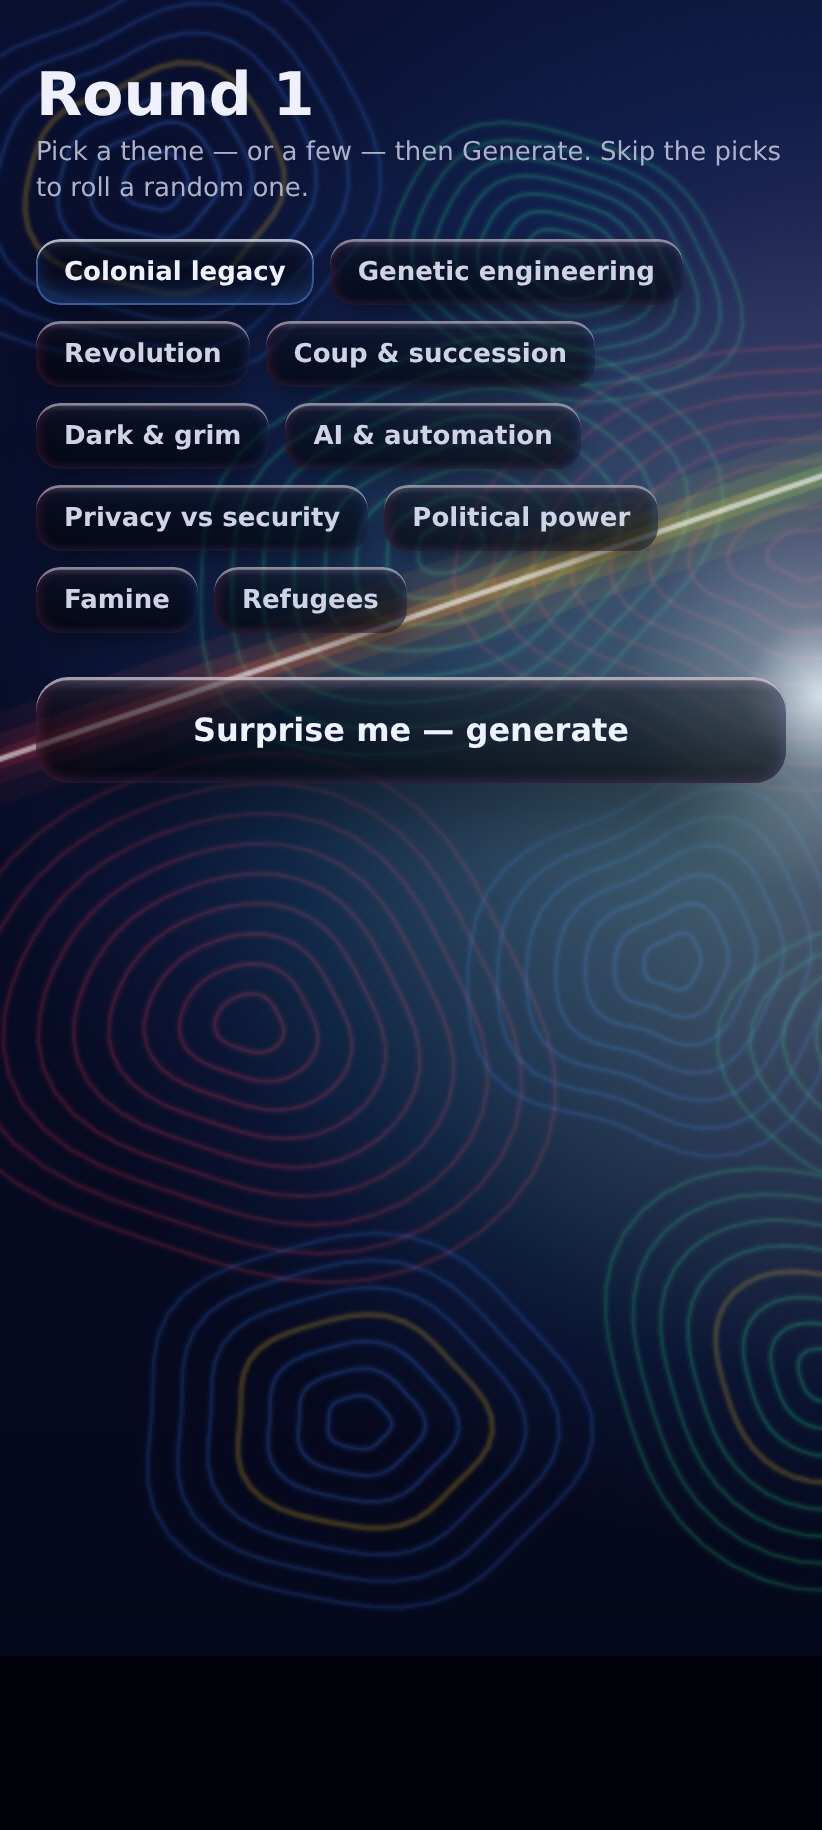
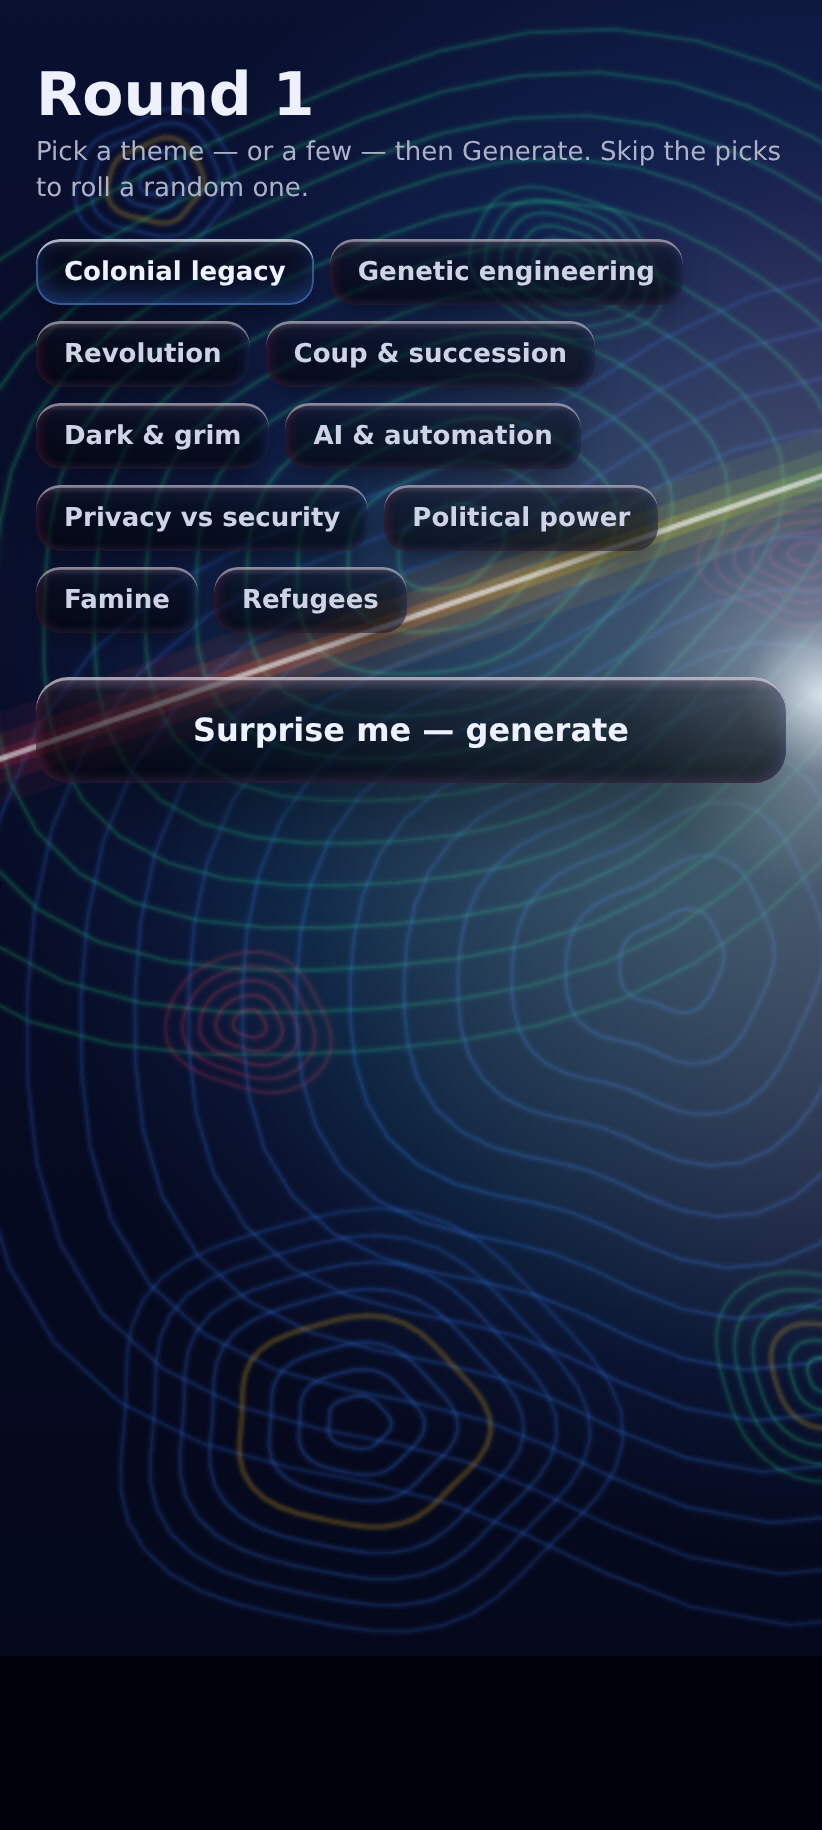
Diverse-scale contours + fresh diffraction loader
- Contours now have realistic size diversity: each peak gets a size class (broad
  many-ringed rises / mid hills / tight little knolls), biased toward small so a
  few big systems stand out — a real topographic map, not one uniform ring size.
- New DiffractionLoader: a glowing warm-white light core that radiates organic,
  ideology-hued contour rings outward (born at the core, bloom out and fade like
  light diffracting through cut glass), with a rotating spectral facet and a
  breathing core. It's the app's visual language in motion. GeneratingView uses
  it in dark mode; the raised-fist loader is kept for light mode.

versionCode 18 / 1.17.

Claude-Session: https://claude.ai/code/session_01FygEfTk57dQcPns1WQqt6E

diff --git a/app/src/main/java/com/azadishashn/app/ui/components/DiffractionLoader.kt b/app/src/main/java/com/azadishashn/app/ui/components/DiffractionLoader.kt
@@ -1,0 +1,123 @@
+package com.azadishashn.app.ui.components
+
+import androidx.compose.animation.core.LinearEasing
+import androidx.compose.animation.core.RepeatMode
+import androidx.compose.animation.core.animateFloat
+import androidx.compose.animation.core.infiniteRepeatable
+import androidx.compose.animation.core.rememberInfiniteTransition
+import androidx.compose.animation.core.tween
+import androidx.compose.foundation.Canvas
+import androidx.compose.foundation.layout.size
+import androidx.compose.runtime.Composable
+import androidx.compose.runtime.getValue
+import androidx.compose.ui.Modifier
+import androidx.compose.ui.geometry.Offset
+import androidx.compose.ui.graphics.Brush
+import androidx.compose.ui.graphics.Color
+import androidx.compose.ui.graphics.Path
+import androidx.compose.ui.graphics.drawscope.DrawScope
+import androidx.compose.ui.graphics.drawscope.Stroke
+import androidx.compose.ui.graphics.drawscope.withTransform
+import androidx.compose.ui.unit.Dp
+import androidx.compose.ui.unit.dp
+import com.azadishashn.app.ui.theme.LaserAmber
+import com.azadishashn.app.ui.theme.LaserBlue
+import com.azadishashn.app.ui.theme.LaserGreen
+import com.azadishashn.app.ui.theme.LaserRed
+import com.azadishashn.app.ui.theme.OrbCore
+import kotlin.math.PI
+import kotlin.math.cos
+import kotlin.math.sin
+
+/**
+ * The diffraction-glass loader: a central light source that radiates organic,
+ * ideology-hued contour rings outward — the app's whole visual language in
+ * motion. Rings are born at the core, bloom outward and fade like light
+ * diffracting through cut glass; the warm-white core breathes. GPU-cheap.
+ */
+@Composable
+fun DiffractionLoader(modifier: Modifier = Modifier, size: Dp = 168.dp) {
+    val t = rememberInfiniteTransition(label = "diffLoader")
+    val emit by t.animateFloat(
+        0f, 1f,
+        infiniteRepeatable(tween(3000, easing = LinearEasing), RepeatMode.Restart),
+        label = "emit",
+    )
+    val spin by t.animateFloat(
+        0f, 360f,
+        infiniteRepeatable(tween(14000, easing = LinearEasing), RepeatMode.Restart),
+        label = "spin",
+    )
+    val pulse by t.animateFloat(
+        0f, 1f,
+        infiniteRepeatable(tween(1500, easing = LinearEasing), RepeatMode.Reverse),
+        label = "pulse",
+    )
+
+    Canvas(modifier.size(size)) {
+        val c = Offset(this.size.width / 2f, this.size.height / 2f)
+        val maxR = this.size.minDimension * 0.5f
+        val hues = listOf(LaserBlue, LaserGreen, LaserRed, LaserAmber, LaserBlue)
+        val rings = hues.size
+
+        // soft bloom behind the core
+        drawCircle(
+            Brush.radialGradient(
+                listOf(LaserBlue.copy(alpha = 0.14f), Color.Transparent),
+                center = c, radius = maxR,
+            ),
+            radius = maxR, center = c,
+        )
+
+        // emanating organic contour rings
+        for (k in 0 until rings) {
+            val local = (emit + k.toFloat() / rings) % 1f
+            val eased = local * (2f - local)                     // ease-out expansion
+            val r = maxR * (0.1f + 0.92f * eased)
+            val fadeIn = (local / 0.1f).coerceAtMost(1f)
+            val fade = 1f - local
+            val a = fadeIn * fade * fade * 0.9f
+            if (a <= 0.01f) continue
+            val col = hues[k]
+            // per-ring organic shape (stable harmonics), rotating slowly
+            val a2 = 0.10f; val a3 = 0.06f
+            val p2 = k * 1.7f; val p3 = k * 2.9f
+            withTransform({ rotate(spin + k * 34f, c) }) {
+                val path = Path()
+                val steps = 54
+                for (i in 0..steps) {
+                    val ang = i / steps.toFloat() * (2f * PI.toFloat())
+                    val wob = 1f + a2 * sin(2f * ang + p2) + a3 * sin(3f * ang + p3)
+                    val px = c.x + r * wob * cos(ang)
+                    val py = c.y + r * wob * 0.92f * sin(ang)
+                    if (i == 0) path.moveTo(px, py) else path.lineTo(px, py)
+                }
+                path.close()
+                drawPath(path, col.copy(alpha = a * 0.35f), style = Stroke(3.2.dp.toPx()))
+                drawPath(path, col.copy(alpha = a), style = Stroke(1.3.dp.toPx()))
+            }
+        }
+
+        // rotating spectral tick — a single bright facet catching the light
+        withTransform({ rotate(-spin * 1.6f, c) }) {
+            val rr = maxR * 0.34f
+            drawCircle(
+                Brush.radialGradient(
+                    listOf(Color.White.copy(alpha = 0.5f), LaserBlue.copy(alpha = 0.2f), Color.Transparent),
+                    center = Offset(c.x + rr, c.y), radius = maxR * 0.12f,
+                ),
+                radius = maxR * 0.12f, center = Offset(c.x + rr, c.y),
+            )
+        }
+
+        // breathing warm-white core
+        val coreR = maxR * (0.15f + 0.03f * sin(pulse * PI.toFloat()))
+        drawCircle(
+            Brush.radialGradient(
+                listOf(OrbCore.copy(alpha = 0.95f), OrbCore.copy(alpha = 0.3f), Color.Transparent),
+                center = c, radius = coreR,
+            ),
+            radius = coreR, center = c,
+        )
+    }
+}

diff --git a/design/loader-mock.html b/design/loader-mock.html
@@ -1,0 +1,20 @@
+<!doctype html><html><head><meta charset="utf-8"><style>
+ html,body{margin:0;width:340px;height:340px;overflow:hidden;
+   background:radial-gradient(120% 90% at 50% 34%,#0a1030,#05081a 60%,#010209)}
+ canvas{display:block;width:340px;height:340px}
+</style></head><body>
+<canvas id="a" width="680" height="680"></canvas>
+<script>
+const R='#ff3b52',G='#2af08a',B='#3f86ff',A='#ffc21e';const hues=[B,G,R,A,B];
+function hex(c,al){const n=parseInt(c.slice(1),16);return `rgba(${n>>16&255},${n>>8&255},${n&255},${al})`;}
+const cv=document.getElementById('a'),x=cv.getContext('2d');const W=cv.width,H=cv.height,DP=2;
+const cx=W/2,cy=H/2,maxR=Math.min(W,H)*0.46;const emit=0.34,spin=emit*300,pulse=0.7;
+let bl=x.createRadialGradient(cx,cy,0,cx,cy,maxR*1.1);bl.addColorStop(0,hex(B,.16));bl.addColorStop(1,hex(B,0));x.fillStyle=bl;x.beginPath();x.arc(cx,cy,maxR*1.1,0,7);x.fill();
+for(let k=0;k<hues.length;k++){const local=(emit+k/hues.length)%1;const eased=local*(2-local);const r=maxR*(0.1+0.92*eased);
+ const fi=Math.min(local/0.1,1);const fade=1-local;const a=fi*fade*fade*0.95;if(a<=0.01)continue;const col=hues[k];
+ const a2=.10,a3=.06,p2=k*1.7,p3=k*2.9;x.save();x.translate(cx,cy);x.rotate((spin+k*34)*Math.PI/180);x.translate(-cx,-cy);
+ const steps=54;x.beginPath();for(let i=0;i<=steps;i++){const ang=i/steps*2*Math.PI;const wob=1+a2*Math.sin(2*ang+p2)+a3*Math.sin(3*ang+p3);const px=cx+r*wob*Math.cos(ang),py=cy+r*wob*0.92*Math.sin(ang);i?x.lineTo(px,py):x.moveTo(px,py);}x.closePath();
+ x.strokeStyle=hex(col,a*.35);x.lineWidth=3.4*DP;x.stroke();x.strokeStyle=hex(col,a);x.lineWidth=1.4*DP;x.stroke();x.restore();}
+x.save();x.translate(cx,cy);x.rotate(-spin*1.6*Math.PI/180);x.translate(-cx,-cy);const rr=maxR*0.34;let tg=x.createRadialGradient(cx+rr,cy,0,cx+rr,cy,maxR*0.12);tg.addColorStop(0,'rgba(255,255,255,.55)');tg.addColorStop(.5,hex(B,.22));tg.addColorStop(1,hex(B,0));x.fillStyle=tg;x.beginPath();x.arc(cx+rr,cy,maxR*0.12,0,7);x.fill();x.restore();
+const coreR=maxR*(0.17+0.03*Math.sin(pulse*Math.PI));let cg=x.createRadialGradient(cx,cy,0,cx,cy,coreR);cg.addColorStop(0,'rgba(240,251,255,.98)');cg.addColorStop(.45,'rgba(240,251,255,.4)');cg.addColorStop(1,'rgba(240,251,255,0)');x.fillStyle=cg;x.beginPath();x.arc(cx,cy,coreR,0,7);x.fill();
+</script></body></html>

diff --git a/design/phone-field.html b/design/phone-field.html
@@ -36,7 +36,7 @@ let bg=x.createLinearGradient(0,0,0,H);bg.addColorStop(0,'#0a1030');bg.addColorS
 x.fillStyle=bg;x.fillRect(0,0,W,H);
 const TWO=6.2831855;
 const HUES=[B,G,R,B,G];
-const peaks=[];{const cols=4,rows=9;for(let gy=0;gy<rows;gy++)for(let gx=0;gx<cols;gx++){const s=gy*cols+gx;const stag=gy%2===0?0:0.5/cols;let cx=(gx+.5)/cols+stag+0.16/cols*jit(s,7);cx=Math.max(-.05,Math.min(1.05,cx));const cy=(gy+.5)/rows+0.16/rows*jit(s,8);const hue=HUES[(gx+gy)%HUES.length];const idx=jit(s,9)>0.55?A:null;peaks.push([cx,cy,34*jit(s,10),hue,idx,7+(s%3),0.017+0.004*jit(s,11)]);}}
+const peaks=[];{const cols=4,rows=9;for(let gy=0;gy<rows;gy++)for(let gx=0;gx<cols;gx++){const s=gy*cols+gx;const stag=gy%2===0?0:0.5/cols;let cx=(gx+.5)/cols+stag+0.16/cols*jit(s,7);cx=Math.max(-.05,Math.min(1.05,cx));const cy=(gy+.5)/rows+0.16/rows*jit(s,8);const hue=HUES[(gx+gy)%HUES.length];const idx=jit(s,9)>0.55?A:null;const cls=jit(s,20);let rings,sp;if(cls>0.5){rings=12+(s%4);sp=0.028+0.007*Math.abs(jit(s,12));}else if(cls>0.05){rings=8+(s%3);sp=0.017+0.004*Math.abs(jit(s,13));}else{rings=5+(s%2);sp=0.0095+0.003*Math.abs(jit(s,14));}peaks.push([cx,cy,34*jit(s,10),hue,idx,rings,sp]);}}
 function hex(c,al){const n=parseInt(c.slice(1),16);return `rgba(${n>>16&255},${n>>8&255},${n&255},${al})`;}
 peaks.forEach((pk,pi)=>{const[cxf,cyf,rot,col,idx,rings,sp]=pk;const cx0=W*cxf,cy0=H*cyf;const ratio=.82+.08*jit(pi,99);
  const a2=.14*jit(pi,1),p2=jit(pi,2)*TWO,a3=.09*jit(pi,3),p3=jit(pi,4)*TWO,a5=.05*jit(pi,5),p5=jit(pi,6)*TWO;

diff --git a/app/src/main/java/com/azadishashn/app/ui/components/Diffraction.kt b/app/src/main/java/com/azadishashn/app/ui/components/Diffraction.kt
@@ -139,13 +139,21 @@ private val PEAKS: List<Peak> = run {
             val cy = ((gy + 0.5f) / rows + 0.16f / rows * jitter(s, 8))
             val hue = BASE_HUES[(gx + gy) % BASE_HUES.size]
             val index = if (jitter(s, 9) > 0.55f) LaserAmber else null
+            // Size class: a real topographic map mixes broad gentle rises, mid
+            // hills and tight little knolls. Bias toward small so a few big ones
+            // stand out. Larger hills carry more rings; small ones stay tight.
+            val cls = jitter(s, 20)
+            val (rings, spacing) = when {
+                cls > 0.5f -> (12 + s % 4) to (0.028f + 0.007f * kotlin.math.abs(jitter(s, 12)))
+                cls > 0.05f -> (8 + s % 3) to (0.017f + 0.004f * kotlin.math.abs(jitter(s, 13)))
+                else -> (5 + s % 2) to (0.0095f + 0.003f * kotlin.math.abs(jitter(s, 14)))
+            }
             add(
                 Peak(
                     cx = cx, cy = cy,
                     rot = 34f * jitter(s, 10),
                     color = hue, index = index,
-                    rings = 7 + (s % 3),
-                    spacing = 0.017f + 0.004f * jitter(s, 11),
+                    rings = rings, spacing = spacing,
                 ),
             )
         }

diff --git a/app/src/main/java/com/azadishashn/app/ui/components/GeneratingView.kt b/app/src/main/java/com/azadishashn/app/ui/components/GeneratingView.kt
@@ -12,6 +12,7 @@ import androidx.compose.animation.fadeOut
 import androidx.compose.animation.slideInVertically
 import androidx.compose.animation.togetherWith
 import androidx.compose.foundation.background
+import androidx.compose.foundation.isSystemInDarkTheme
 import androidx.compose.foundation.layout.Arrangement
 import androidx.compose.foundation.layout.Box
 import androidx.compose.foundation.layout.Column
@@ -76,7 +77,11 @@ fun GeneratingView(kind: String?, context: String, modifier: Modifier = Modifier
         horizontalAlignment = Alignment.CenterHorizontally,
         verticalArrangement = Arrangement.Center,
     ) {
-        FistLoader(size = 168.dp)
+        if (isSystemInDarkTheme()) {
+            DiffractionLoader(size = 176.dp)
+        } else {
+            FistLoader(size = 168.dp)
+        }
         Spacer(Modifier.height(36.dp))
 
         Text(kickerFor(kind), style = OverlineStyle, color = GoldBright)
